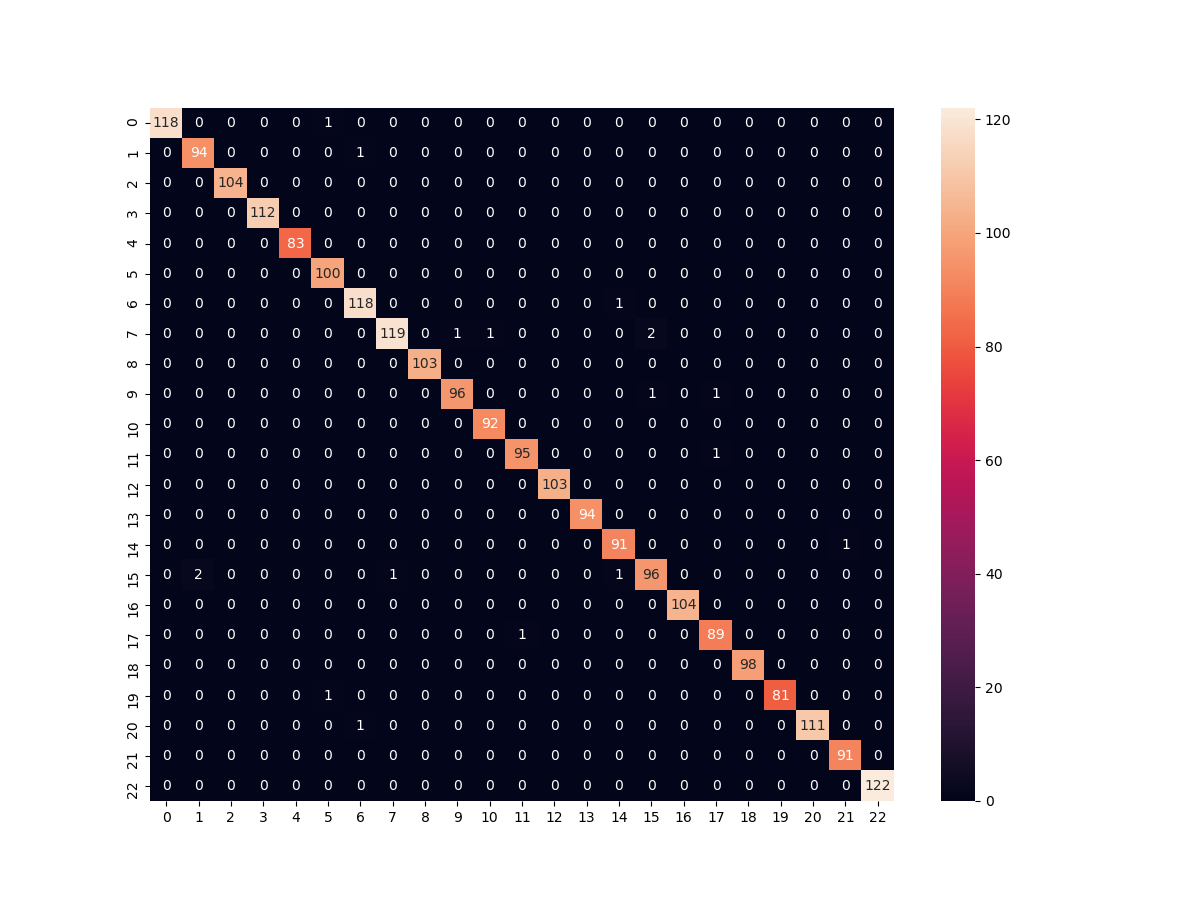
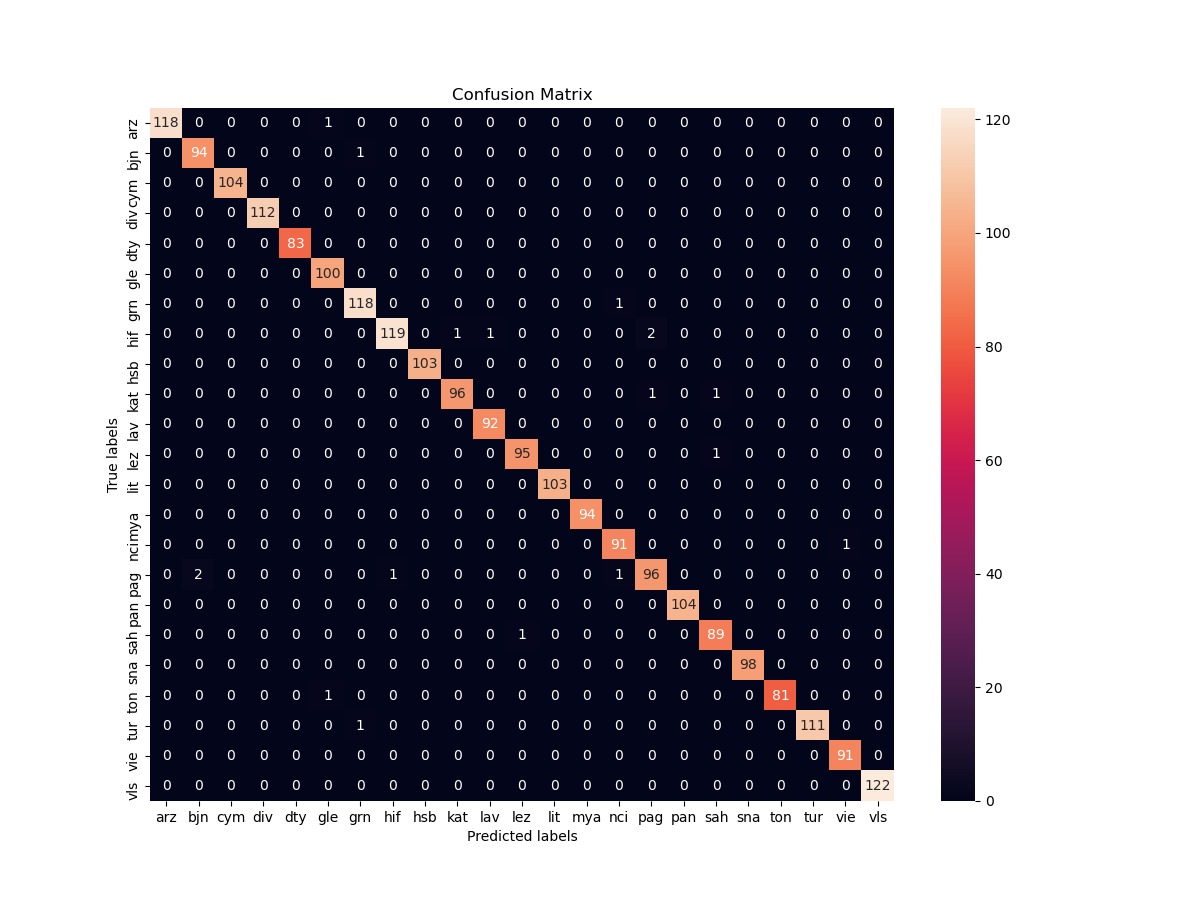
Confusion matrix

diff --git a/rnn/rnn-test.py b/rnn/rnn-test.py
@@ -53,6 +53,7 @@ _, _, _, _, x_test, y_test = dataloader.get_dataframes()
 x_test_idx = [np.array([char_dictionary.indicies[c] for c in line if c in char_dictionary.indicies]) for line in x_test["sentence"]]
 y_test_idx = np.array([lang_dictionary.indicies[lang] for lang in y_test["language"]])
 
+print(lang_dictionary.indicies)
 
 def batch_generator(data, batch_size, token_size):
     "Yield elements from data in chunks with a maximum of batch_size sequences"
@@ -129,9 +130,10 @@ test_data = [(x, y) for x, y in zip(x_test_idx, y_test_idx)]
 acc, loss, y_pred, y_actual = validate(model, criterion, test_data, batch_size, token_size)
 
 cm = confusion_matrix(y_actual, y_pred)
-plt.figure(figsize=(150, 100))
+
+plt.figure(figsize=(12, 9))
 ax= plt.subplot()
-plt.savefig("confusionmatrix.png")
+sns.heatmap(cm, annot=True, fmt='g', ax=ax)
 
 # labels, title and ticks
 ax.set_xlabel('Predicted labels')
@@ -140,5 +142,6 @@ ax.set_title('Confusion Matrix')
 ax.xaxis.set_ticklabels(lang_dictionary.tokens)
 ax.yaxis.set_ticklabels(lang_dictionary.tokens)
 
+plt.savefig("confusionmatrix.png")
 plt.show()
 print(acc, loss)
